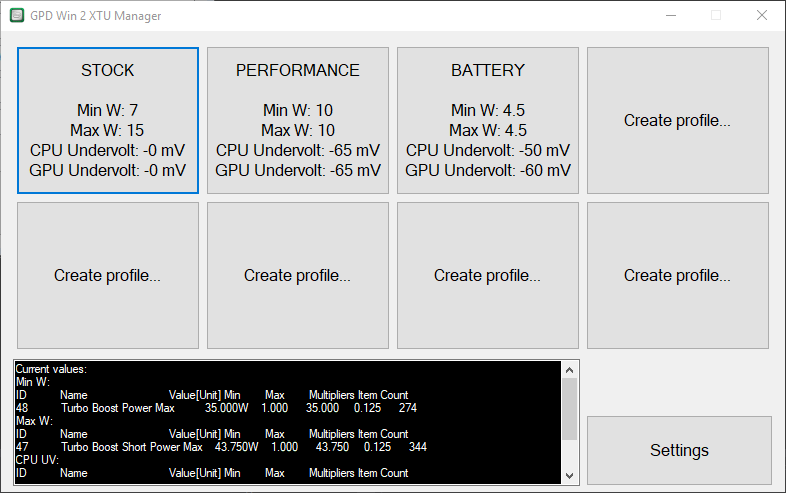
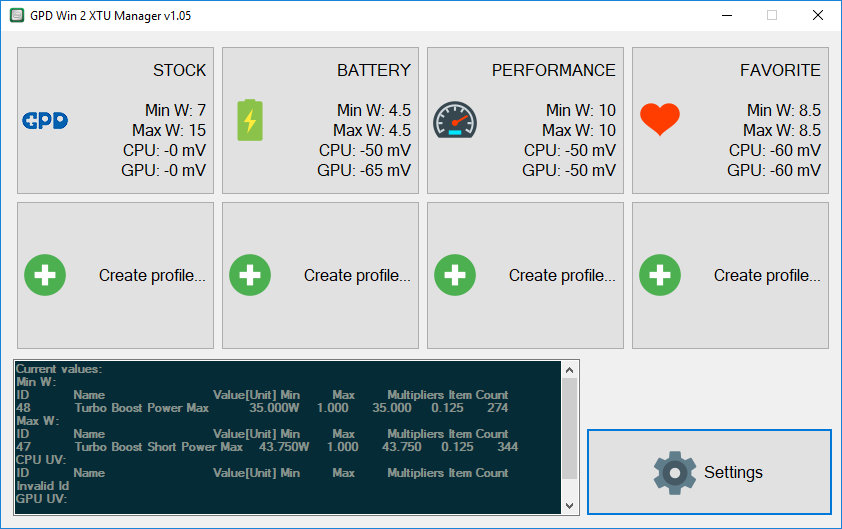
Updated to 1.05

diff --git a/GPDWin2XTUManager/Properties/Resources.Designer.cs b/GPDWin2XTUManager/Properties/Resources.Designer.cs
@@ -123,6 +123,16 @@ namespace GPDWin2XTUManager.Properties {
         /// <summary>
         ///   Looks up a localized resource of type System.Drawing.Bitmap.
         /// </summary>
+        internal static System.Drawing.Bitmap Heart {
+            get {
+                object obj = ResourceManager.GetObject("Heart", resourceCulture);
+                return ((System.Drawing.Bitmap)(obj));
+            }
+        }
+        
+        /// <summary>
+        ///   Looks up a localized resource of type System.Drawing.Bitmap.
+        /// </summary>
         internal static System.Drawing.Bitmap OK {
             get {
                 object obj = ResourceManager.GetObject("OK", resourceCulture);
@@ -136,6 +146,16 @@ namespace GPDWin2XTUManager.Properties {
         internal static System.Drawing.Bitmap Plus {
             get {
                 object obj = ResourceManager.GetObject("Plus", resourceCulture);
+                return ((System.Drawing.Bitmap)(obj));
+            }
+        }
+        
+        /// <summary>
+        ///   Looks up a localized resource of type System.Drawing.Bitmap.
+        /// </summary>
+        internal static System.Drawing.Bitmap Processor {
+            get {
+                object obj = ResourceManager.GetObject("Processor", resourceCulture);
                 return ((System.Drawing.Bitmap)(obj));
             }
         }
@@ -166,6 +186,16 @@ namespace GPDWin2XTUManager.Properties {
         internal static System.Drawing.Bitmap Trash {
             get {
                 object obj = ResourceManager.GetObject("Trash", resourceCulture);
+                return ((System.Drawing.Bitmap)(obj));
+            }
+        }
+        
+        /// <summary>
+        ///   Looks up a localized resource of type System.Drawing.Bitmap.
+        /// </summary>
+        internal static System.Drawing.Bitmap Videocard {
+            get {
+                object obj = ResourceManager.GetObject("Videocard", resourceCulture);
                 return ((System.Drawing.Bitmap)(obj));
             }
         }

diff --git a/GPDWin2XTUManager/Shared.cs b/GPDWin2XTUManager/Shared.cs
@@ -42,6 +42,9 @@ namespace GPDWin2XTUManager
             IMAGE_RESOURCES_DICTIONARY.Add(ProfileImage.Performance, Resources.Speedometer);
             IMAGE_RESOURCES_DICTIONARY.Add(ProfileImage.Gamepad, Resources.Gamepad);
             IMAGE_RESOURCES_DICTIONARY.Add(ProfileImage.Dpad, Resources.Dpad);
+            IMAGE_RESOURCES_DICTIONARY.Add(ProfileImage.Heart, Resources.Heart);
+            IMAGE_RESOURCES_DICTIONARY.Add(ProfileImage.Processor, Resources.Processor);
+            IMAGE_RESOURCES_DICTIONARY.Add(ProfileImage.Videocard, Resources.Videocard);
         }
     }
 

diff --git a/GPDWin2XTUManager/ProfileImage.cs b/GPDWin2XTUManager/ProfileImage.cs
@@ -8,6 +8,6 @@ namespace GPDWin2XTUManager
 {
     public enum ProfileImage
     {
-        Battery, Gaming, GPD, Performance, Gamepad, Dpad
+        Battery, Gaming, GPD, Performance, Gamepad, Dpad, Heart, Processor, Videocard
     }
 }

diff --git a/README.md b/README.md
@@ -16,11 +16,11 @@ To start creating your own profile, either click any of the **Create profile...*
 ![](Images/Options.png)
 
 The defined profiles are shown on the left side. Selecting any of these updates the fields on the right. The STOCK profile can't be adjusted.  
-To create a new profile, click the **+** button below the profile list. A new profile will be added to the list. Click on the newly made profile to select it.
+To create a new profile, click the **plus** button below the profile list. A new profile will be added to the list. Click on the newly made profile to select it.
 
 The default values will be the same as the STOCK profile, you can alter these to your liking. Every change you make here is automatically saved to the profiles list.
 
-To delete the selected profile, press the **-** button. The application will ask if you're sure to prevent accidental removals.
+To delete the selected profile, press the **trashcan** button. The application will ask if you're sure to prevent accidental removals.
 
 You can automatically apply any of the profiles after logging in by checking the **Apply profile at log on** checkbox and choosing a profile in the dropdown next to it. Unchecking the checkbox will remove the log on entry from the registry.
 
